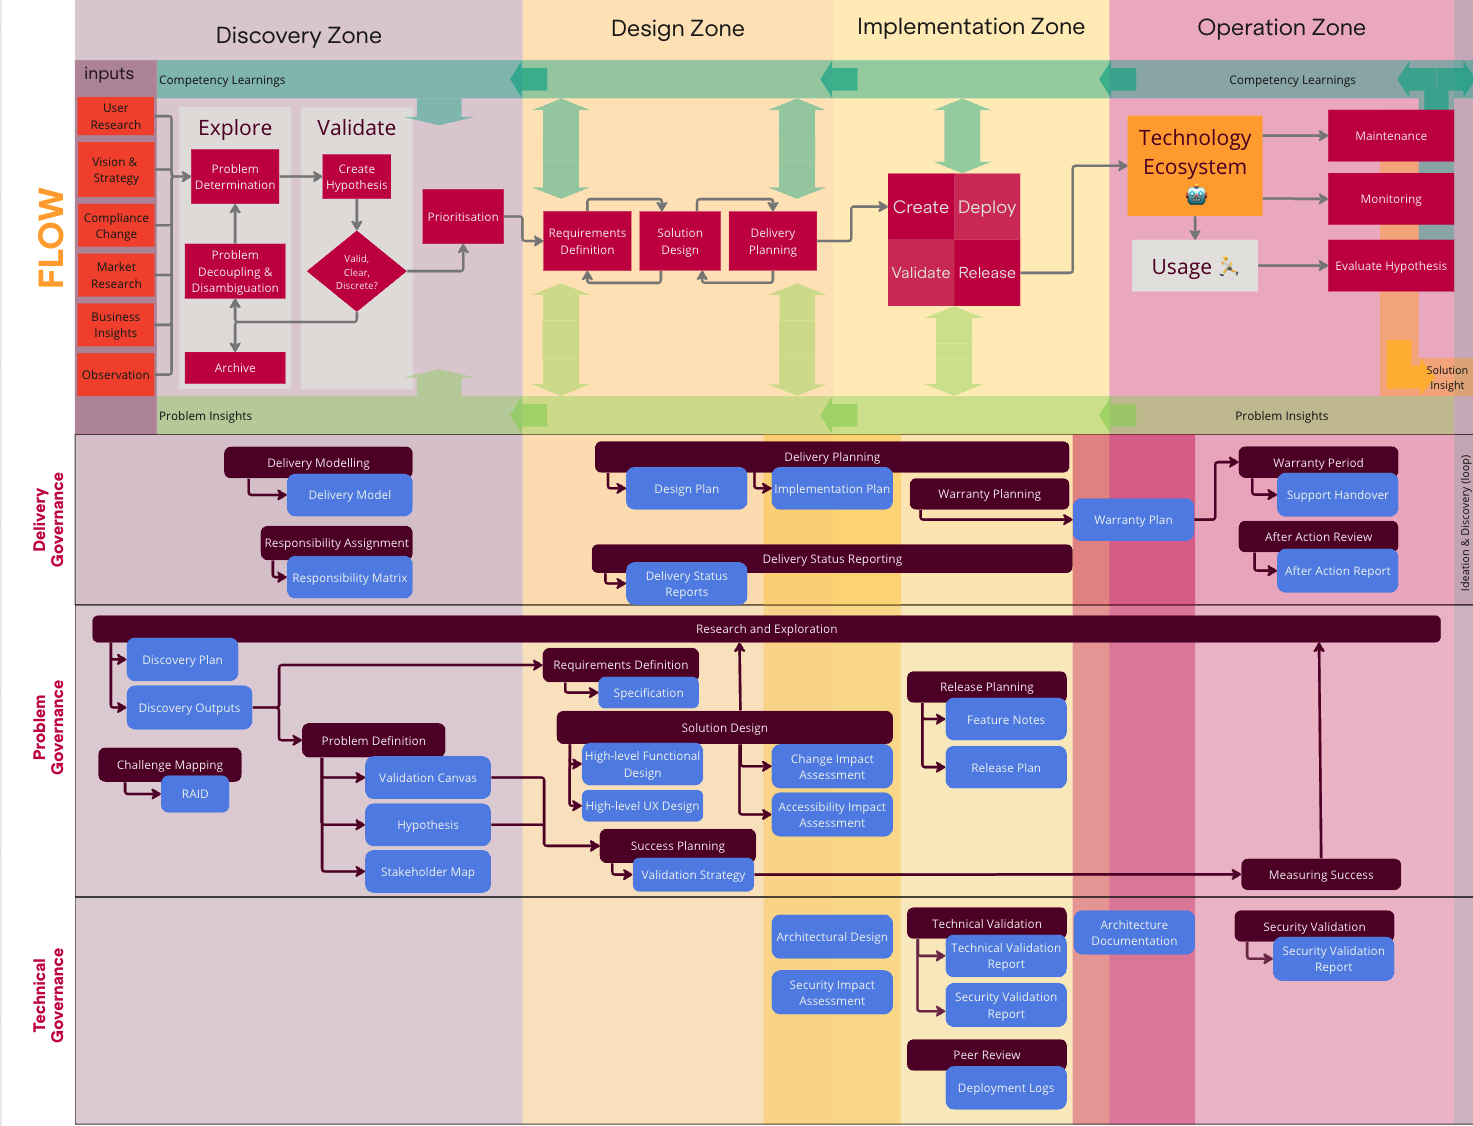
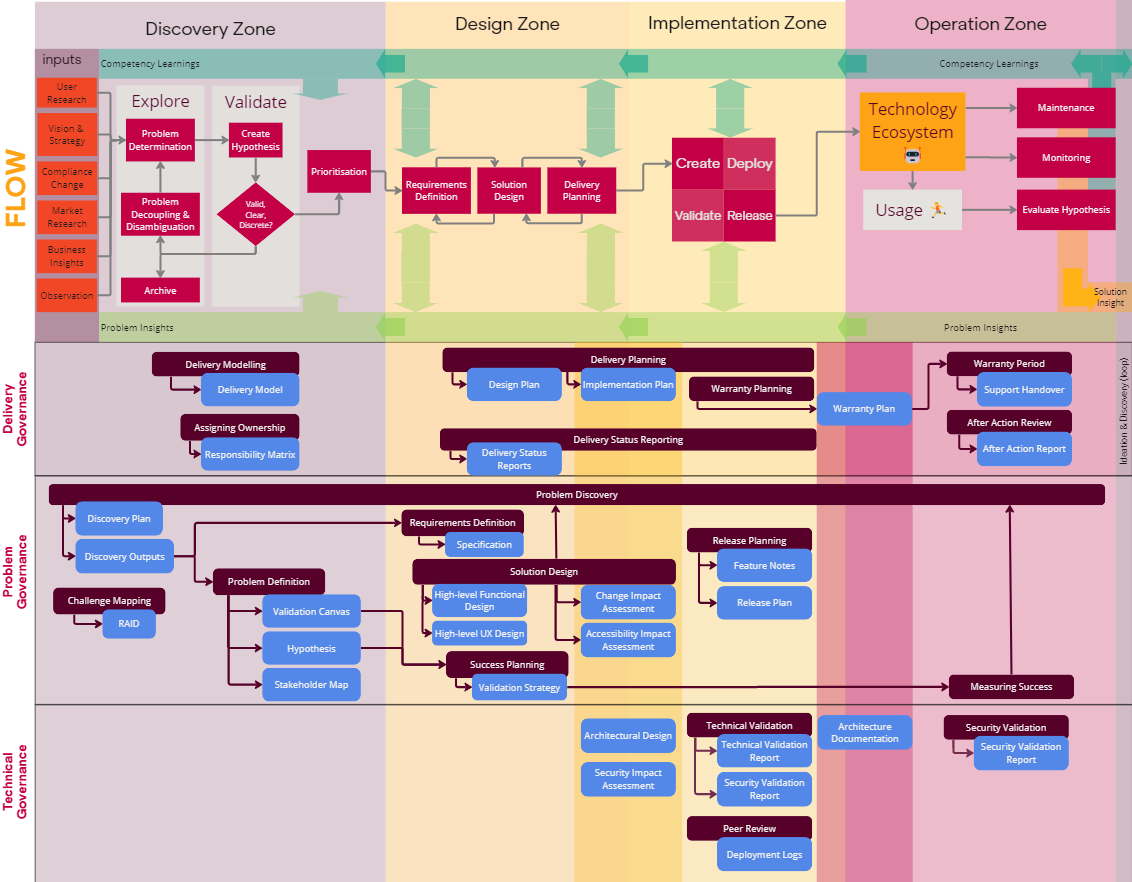
commit changes

Changed region(s): [[0.0, 0.0, 1.0, 1.0], [0.4019, 0.0, 0.5256, 0.0612]]

diff --git a/docs/Ways-of-Working/Governance/Delivery-Governance/Responsibility-Assignment.md b/docs/Ways-of-Working/Governance/Delivery-Governance/Responsibility-Assignment.md
@@ -4,48 +4,22 @@ tags:
     - draft
 ---
 
-## Objective
-
-Ensure ownership, roles and accountability are clearly and continuously defined and communicated throughout the full project lifecycle.
-
-## Responsibility Assignment 
-
-Responsibility assignment is a procedure that defines and ensures continuous validation of roles, delineating clear responsibilities and accountability throghout the full problem lifecycle.
-
-Responsibility assignment includes the assignment and continuous review of [Problem Ownership](../Problem-Ownership.md) and stakeholder responsibilities storred in a responsibility matrix commonly referred to as a RACI 
-
-
 ## Responsibility Matrix
-A responsibility matrix is a single artefact produced and maintained by the delivery team, and is used to clarify, continuoulsy monitor and review the roles and responsibilities of individuals or groups involved in the delivery of a solution. 
 
-A responsibility matrix should detail key information that enables more effective collaboration with stakeholders and includes: a list of stakeholders, clarity on their type of involvement, potential impact on project, availability and any other additional details that help optimise collaboration.
+**Responsibility Matrix** is an artefact consisting of mechanisms for managing and maintaining the **Responsibility Matrix** (usually referred to as a RACI) and typically includes key information and guidance for interacting with all personnel and stakeholders involved in solving the problem. Initially produced during the **Discovery Zone** and forms part of problem governance, and is transferred to **Delivery Planning** during the **AMPFlow Design and Implementation Zones**
 
-## Responsibilities
+#### Accountable: 
+The Delivery Owner is accountable for ensuring that the responsibility matrix is current, maintained and accessible
 
-| Owner                 | Responsibility |
-|---|---|
-| Delivery Owner        | The Delivery Owner is **accountable** for ensuring that responsibility assignment is conducted, occurs at appropriate times and the responsibility matrix produced is valid and easily accessible   |
-| Delivery Team         | The whole Delivery team is collectively **responsible** for conducting responsibility assignment events, producing and maintaining responsibility matrix, ensuring it's accessible and continuously communicated with stakeholders |
-| Product Lead          | **Responsible** for participating in any responsibility assignment events, ensuring that product ownership is defined, remains valid and the responsibility matrix lists any key product stakeholders |
-| Engineering Owner     | **Responsible** for participating in any responsibility assignment events, ensuring that engineering ownership is defined, remains valid and the responsibility matrix lists any key engineering stakeholders  |
-| Design Owner          | **Responsible** for participating in any responsibility assignment events, ensuring that design ownership is defined, remains valid and the responsibility matrix lists any key design stakeholders  |
+#### Responsible 
+All members of delivery teams assigned to the problem, as well as the problem owner are responsible for ensuring that the **Responsibility Matrix** is produced, current, accurately maintained and accessible 
+
+#### Triggers
+The delivery team responsible for a problem will need to determine and document when a **Responsibility Matrix** (or **RACI**) will need to be reviewed and updated, and as a consequence whether additional **Stakeholder Identification**, and **Stakeholder Mapping** will need to take place.
 
 
-## Triggers
+## Toolkit
 
-The responsibility matrix must remain valid throughout the full problem solving lifecycle, and therefore should be routinely reviewed and updated when any change occurs that impacts problem ownership or any individuals or groups involved in the deliveery of a solution.
+!!! toolkit "Toolkit"
 
-Problem ownership must be defined as soon as enough is known or early in the discovery zone. The team responsible for delivering a solution will need to determine and document when a responsibility matrix should be produced, reviewed and updated, and therefore when any responsibility assignment events should occur. 
-
-## Communication Plan
-
-The team responsible for delivering a solution will need to ensure that the responsibility matrix and any accompanying guidance is easily accessible, and expectations continuously communicated with all stakeholders. 
-
-
-## Considerations
-
-A responsibility matrix is a valuable tool primarily used by the delivery team rather than stakeholders. While stakeholders may have an interest in understanding who is responsible for specific aspects of a solution, they typically rely on other forms of communication, such as synchronous or asynchronous [Delivery Status Reporting](../Delivery-Governance/Delivery-Status-Reporting/index.md) rather than directly referencing the responsibility matrix.
-
-
-
-
+    <!-- material/tags { include: [RACI,Responsibility Assignment] } -->

diff --git a/docs/Ways-of-Working/Governance/Delivery-Governance/Delivery-Planning.md b/docs/Ways-of-Working/Governance/Delivery-Governance/Delivery-Planning.md
@@ -35,8 +35,8 @@ Delivery Plans are a set of artefacts produced and maintained by the delivery te
 | Delivery Owner        | The Delivery Owner is **accountable** for ensuring that delivery planning occurs at appropriate times and delivery plans are produced and effectively communicated with colleagues and stakeholders |
 | Delivery Team         | The whole Delivery team is collectively **responsible** for conducting delivery planning sessions, producing delivery plans and ensuring these plans are well maintained, accessible and effectively communicated with colleagues and stakeholders |
 | Product Lead          | **Responsible** for participating in any delivery planning events, producing delivery planning artefacts by sharing relevant product insights and providing relevant estimations |
-| Engineering Owner     | **Responsible** for participating in any delivery planning events, producing delivery planning artefacts by sharing relevant technology insights and providing relevant estimations |
-| Design Owner          | **Responsible** for participating in any delivery planning events, producing delivery planning artefacts by sharing relevant user/design insights, and providing relevant estimations |
+| Engineering Owner     | **Responsible** for participating in any delivery planning events, producing delivery planning artefacts by sharing relevant technology  insights and providing relevant estimations |
+| Design Owner          | **Responsible** for participating in any delivery planning events, producing delivery planning artefacts by sharing relevant user/design   insights, and providing relevant estimations |
 
 ## Triggers
 
